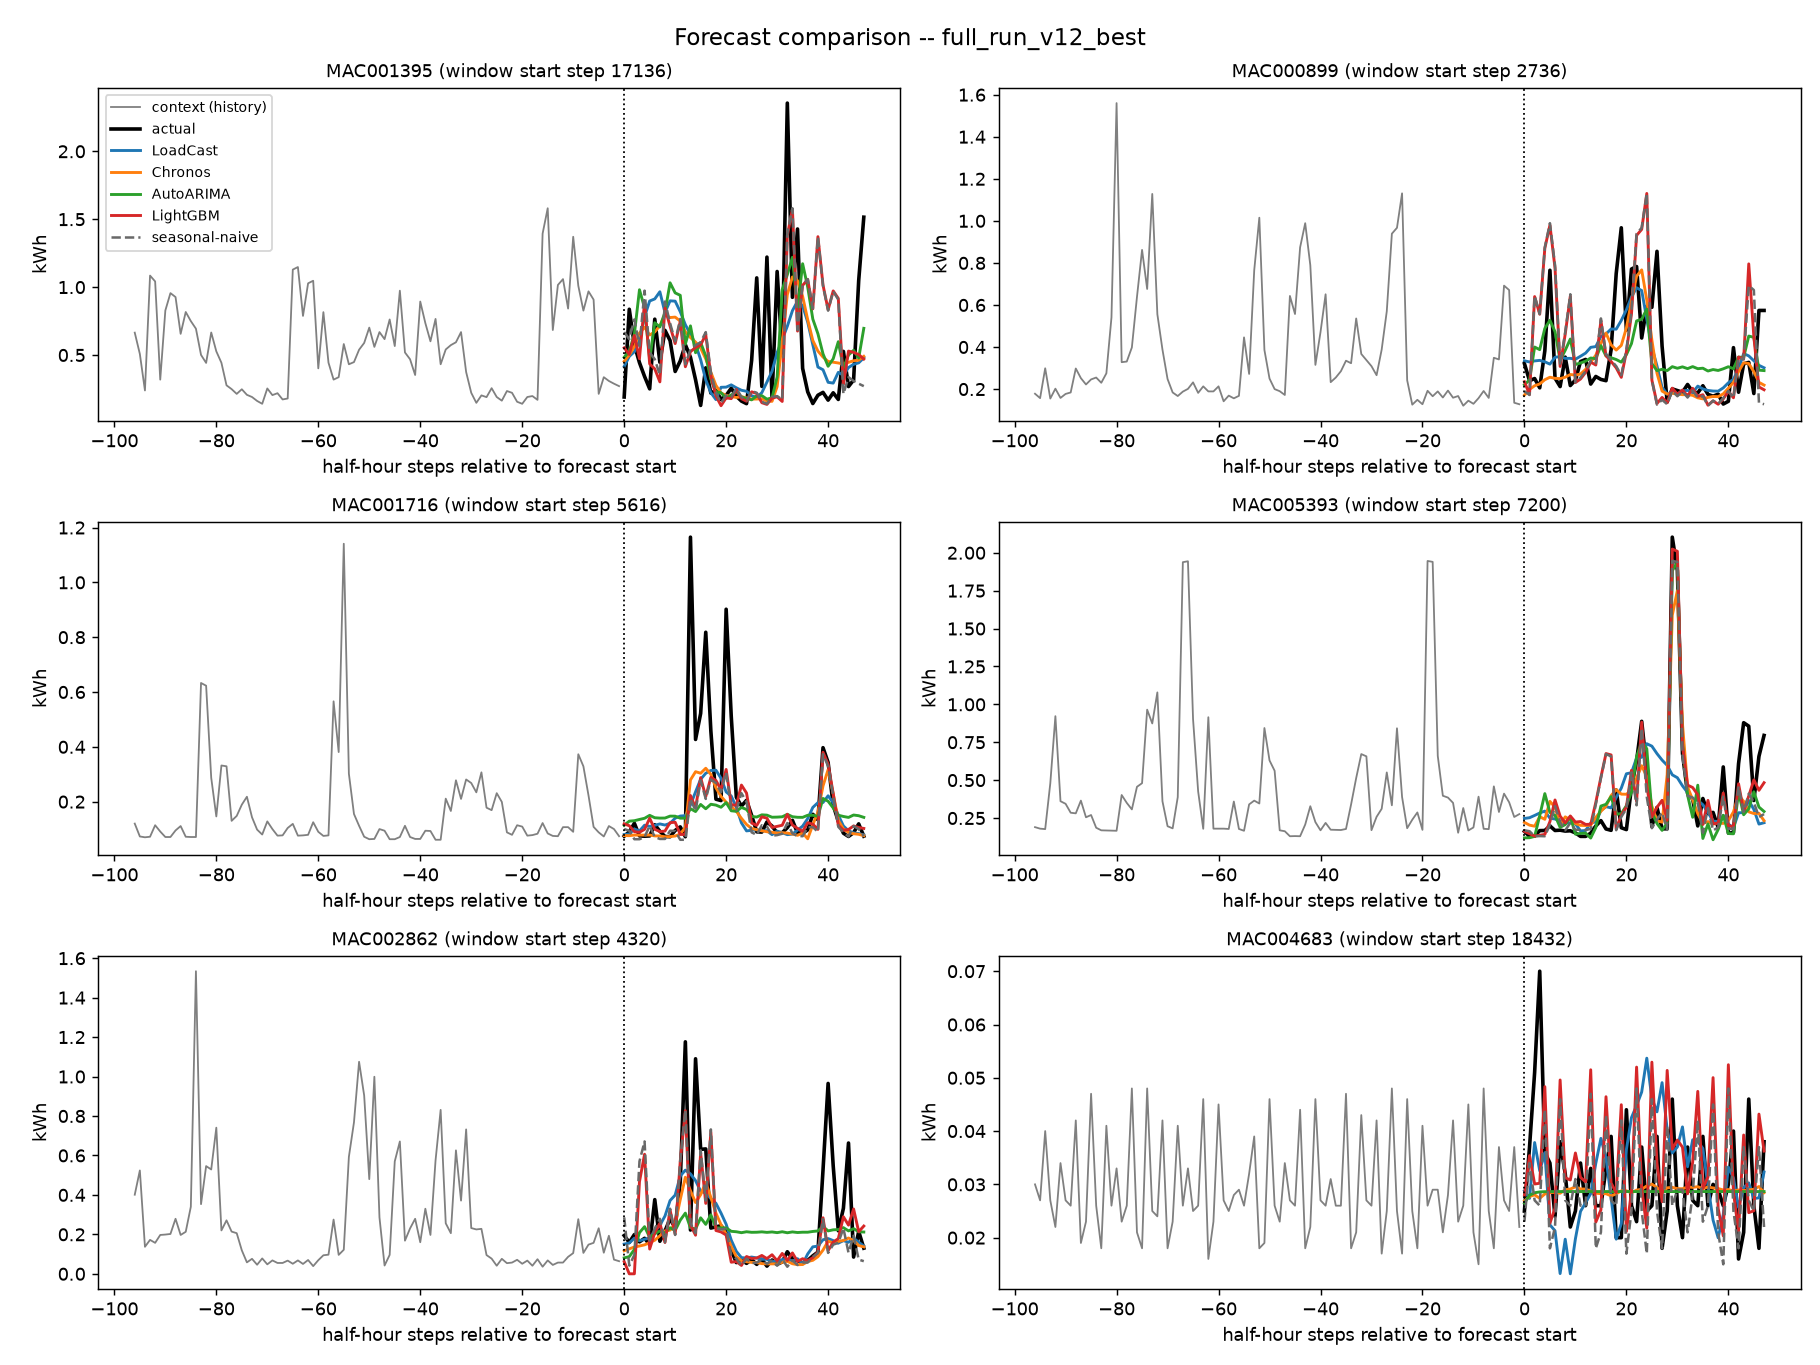
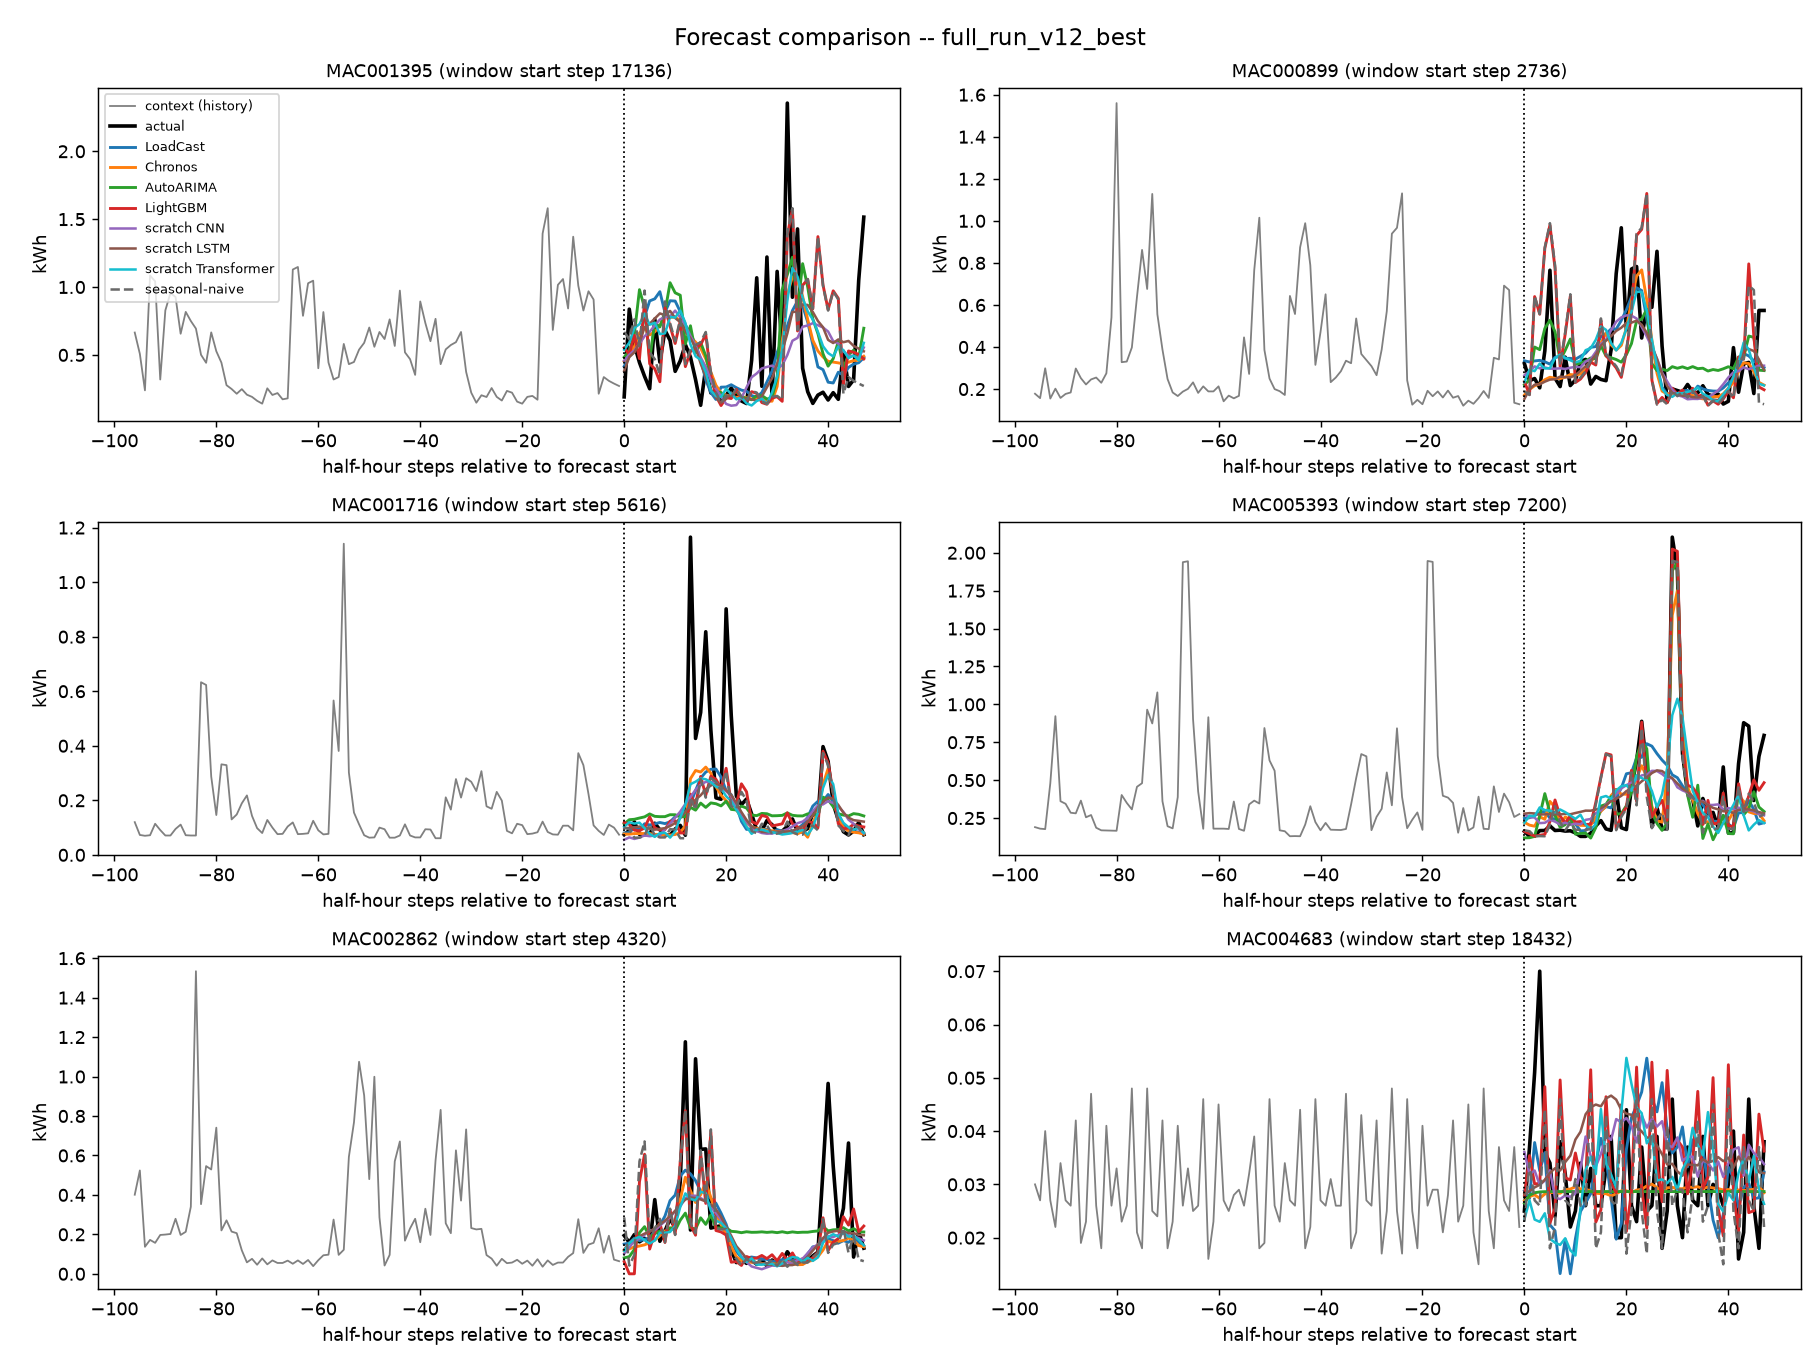
Update with reproduced numbers and the full-method comparison plot
The user independently reproduced all three scratch baselines (with
checkpoint persistence added) and extended plot_forecasts.py to include
them as traces. Updated the table with the reproduced MASE values
(scratch Transformer 0.814 -> 0.809, LSTM/CNN essentially unchanged)
and swapped in the regenerated 9-trace plot.

Re-examined the plot at full resolution with the new traces visible
and found two real updates to the per-household read: the LSTM throws
a false-alarm spike ~10 steps early on the household where every other
method times it correctly, and on the noisy low-consumption household
it's not just LoadCast/LightGBM chasing the noise anymore -- every
method except Chronos and Auto-ARIMA does, now that CNN/LSTM/
Transformer are visible too.

diff --git a/_posts/2026-09-16-reprogramming-llm-electricity-forecasting.md b/_posts/2026-09-16-reprogramming-llm-electricity-forecasting.md
@@ -61,23 +61,23 @@ The comparison spans a real ladder of approaches, not just a flat list. Seasonal
 | Method | Category | MASE | MAE (kWh) |
 |---|---|---|---|
 | Chronos (zero-shot) | Foundation model | 0.755 | 0.092 |
-| Scratch Transformer | Modern (from scratch) | 0.814 | 0.100 |
-| LSTM | Deep learning | 0.850 | 0.106 |
+| Scratch Transformer | Modern (from scratch) | 0.809 | 0.100 |
+| LSTM | Deep learning | 0.851 | 0.106 |
 | LoadCast | Fine-tuned general LLM | 0.855 | 0.106 |
 | CNN | Deep learning | 0.860 | 0.108 |
 | Auto-ARIMA | Classical (statistical) | 0.981 | 0.118 |
 | LightGBM | Classical (ML) | 0.992 | 0.119 |
 | Seasonal-naive | Baseline | 1.003 | 0.120 |
 
-Chronos wins, clearly, the only method that separates itself from everything else. LoadCast hasn't closed that gap, by about 0.014 kWh per half-hour reading on average. Small per household; whether it matters at grid scale, aggregated across thousands of day-ahead schedules, isn't something this project measures. Below Chronos, the picture is flatter than expected. LoadCast, the scratch Transformer, the LSTM, and the CNN all land within 0.05 MASE of each other, a tight cluster of everything that's actually deep learning on this data. LoadCast sits in the middle of that cluster, not ahead of it and not behind it, despite being the only one built on a pretrained backbone, and the only one that took anywhere near as long to train: 100 minutes, against 2 to 12 for the others. Every deep-learning method still clears the classical toolkit by a real margin: Auto-ARIMA, LightGBM, and seasonal-naive cluster separately, within 0.03 MASE of each other, essentially tied. The one thing that's helped LoadCast specifically is training on more households. 150, then 450, then 900. Each step improved holdout MASE a bit further. Whether more data alone would ever separate it from the rest of the deep-learning cluster, or close the gap to Chronos, isn't tested here.
+Chronos wins, clearly, the only method that separates itself from everything else. LoadCast hasn't closed that gap, by about 0.014 kWh per half-hour reading on average. Small per household; whether it matters at grid scale, aggregated across thousands of day-ahead schedules, isn't something this project measures. Below Chronos, the picture is flatter than expected. LoadCast, the scratch Transformer, the LSTM, and the CNN all land within 0.06 MASE of each other, a tight cluster of everything that's actually deep learning on this data. LoadCast sits in the middle of that cluster, not ahead of it and not behind it, despite being the only one built on a pretrained backbone, and the only one that took anywhere near as long to train: 100 minutes, against 2 to 12 for the others. Every deep-learning method still clears the classical toolkit by a real margin: Auto-ARIMA, LightGBM, and seasonal-naive cluster separately, within 0.03 MASE of each other, essentially tied. The one thing that's helped LoadCast specifically is training on more households. 150, then 450, then 900. Each step improved holdout MASE a bit further. Whether more data alone would ever separate it from the rest of the deep-learning cluster, or close the gap to Chronos, isn't tested here.
 
 Covariates make almost no difference, on or off. Checking the trained gates explains why: temperature, holiday, and calendar each start at a small, deliberately gentle contribution, a sigmoid-scaled gate initialized to let through about 12% of the signal, and after the full run, every one of them is still sitting within a couple of percentage points of that same starting value. They never learned to open up. Whether that's a training-signal problem, a single scalar gate is a narrow channel for gradient to push through, or these covariates genuinely don't carry much the model can't already infer from recent history, is an open question this doesn't answer yet.
 
 The table only shows averages. Here's what six of those held-out households actually look like, forecast window by forecast window:
 
-![Forecast comparison across six held-out households: LoadCast, Chronos, Auto-ARIMA, LightGBM, and seasonal-naive](/images/loadcast-forecast-comparison.png)
+![Forecast comparison across six held-out households: LoadCast, Chronos, Auto-ARIMA, LightGBM, the scratch CNN/LSTM/Transformer, and seasonal-naive](/images/loadcast-forecast-comparison.png)
 
-LoadCast and Chronos track closely on most of these. Both smooth over the sharpest spikes in actual demand. The six panels aren't interchangeable profiles, though. Three households are mostly flat with occasional large spikes, and every model, LoadCast included, misses at least one of those spikes outright, less a modeling gap than genuinely unpredictable behavior. One household's single spike, by contrast, is caught closely by all five methods, including seasonal-naive, suggesting a more routine, learnable pattern behind it. On the low-consumption, high-frequency-noise household, LoadCast and LightGBM chase the noise while Chronos and Auto-ARIMA stay close to flat. It's a tentative read across six windows, not a systematic breakdown by consumption type, but a reminder that one averaged MASE number hides real variation in how, and when, these methods actually fail.
+LoadCast and Chronos track closely on most of these. Both smooth over the sharpest spikes in actual demand. The six panels aren't interchangeable profiles, though. Three households are mostly flat with occasional large spikes, and every method, LoadCast included, misses at least one of those spikes outright, less a modeling gap than genuinely unpredictable behavior. One household's single spike, by contrast, is caught closely by most methods, including seasonal-naive, suggesting a more routine, learnable pattern behind it, though the scratch LSTM alone flags a false alarm about ten steps early that nothing else shares. On the low-consumption, high-frequency-noise household, every method except Chronos and Auto-ARIMA chases the noise instead of smoothing over it. It's a tentative read across six windows, not a systematic breakdown by consumption type, but a reminder that one averaged MASE number hides real variation in how, and when, these methods actually fail.
 
 I tested the language-capability argument directly, in a small way. LoadCast itself can't answer anything in words: reprogramming never loads a text-generation head, so the forecast can't be phrased in language by that model at all. Pairing it with a separate, ordinarily instruction-tuned sibling model does work, technically. But the language side is currently weak. Left to reason freely over the numbers, even a well-prompted small instruct model hallucinated readily. A working version needed its role narrowed to paraphrasing a fact computed in advance, checked afterward for invented numbers. An initial exercise, not a verdict on the idea.
 
